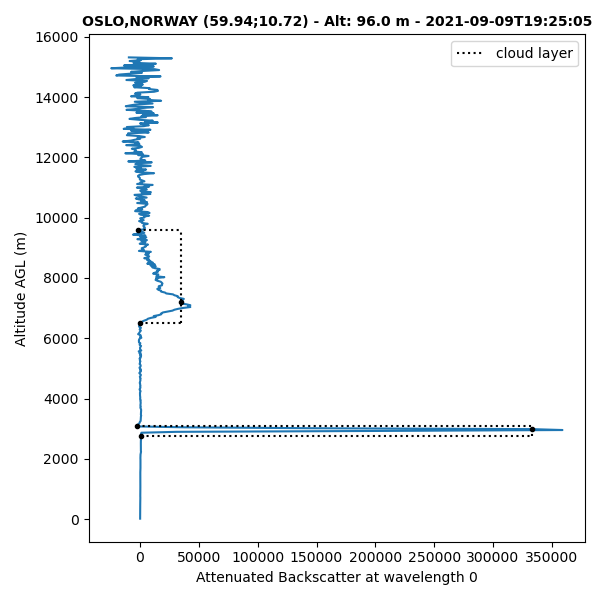
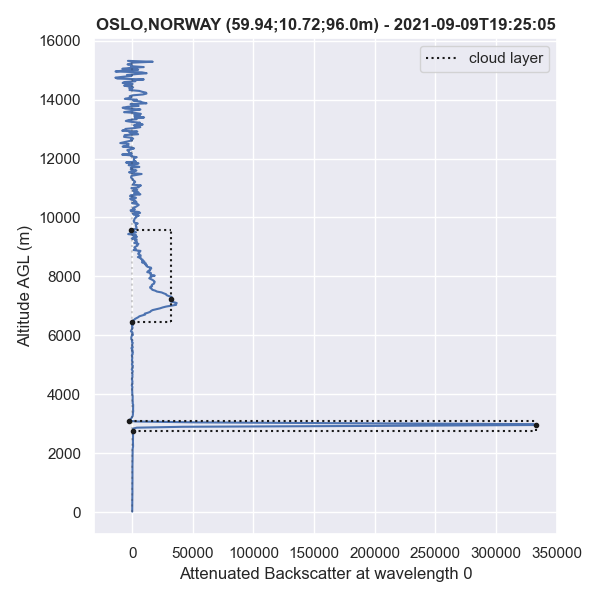
update README

diff --git a/docs/_build/html/searchindex.js b/docs/_build/html/searchindex.js
@@ -1,1 +1,1 @@
-Search.setIndex({docnames:["api","index","installation","introduction"],envversion:{"sphinx.domains.c":2,"sphinx.domains.changeset":1,"sphinx.domains.citation":1,"sphinx.domains.cpp":3,"sphinx.domains.index":1,"sphinx.domains.javascript":2,"sphinx.domains.math":2,"sphinx.domains.python":2,"sphinx.domains.rst":2,"sphinx.domains.std":1,"sphinx.ext.viewcode":1,sphinx:56},filenames:["api.rst","index.rst","installation.rst","introduction.rst"],objects:{"aprofiles.profilesdata":{ProfilesData:[0,1,1,""]},"aprofiles.profilesdata.ProfilesData":{data:[0,2,1,""],detect_clouds:[0,2,1,""],detect_fog_or_condensation:[0,2,1,""],extrapolation_lowest_layers:[0,2,1,""],gaussian_filter:[0,2,1,""],plot:[0,2,1,""],range_correction:[0,2,1,""]},"aprofiles.rayleigh":{Rayleigh:[0,1,1,""]},"aprofiles.reader":{ReadProfiles:[0,1,1,""],main:[0,3,1,""]},"aprofiles.reader.ReadProfiles":{read:[0,2,1,""]},aprofiles:{profilesdata:[0,0,0,"-"],rayleigh:[0,0,0,"-"],reader:[0,0,0,"-"]}},objnames:{"0":["py","module","Python module"],"1":["py","class","Python class"],"2":["py","method","Python method"],"3":["py","function","Python function"]},objtypes:{"0":"py:module","1":"py:class","2":"py:method","3":"py:function"},terms:{"1013":0,"1064":[],"150m":0,"200":0,"298":0,"case":0,"default":0,"float":0,"function":0,"int":0,"return":0,"true":0,"var":0,For:1,The:0,Use:0,about:1,abov:0,add:0,add_cloud:[],add_dataarrai:0,add_fog:[],add_pbl:[],addit:0,aerocom:3,aerosol:0,after:0,aggreg:0,agl:0,all:0,altitud:0,amol:[],angl:0,api:1,appli:0,aprofil:[0,2],arg:0,arrai:0,atmospher:[],attenuated_backscatter_0:0,attribut:0,avail:0,axes:0,axi:0,backscatt:0,base:0,beam:0,becom:0,befor:0,below:0,blabla:3,blblbl:3,blvblv:[],bmol:[],bool:0,calcul:0,call:0,can:2,certain:0,closest:0,cloud:0,cloud_base_height:0,clouds_bas:0,clouds_peak:0,clouds_top:0,cmap:0,coeffici:[],colormap:0,comput:0,condens:0,consid:0,construct:0,constructor:0,copi:0,core:0,correct:0,correspond:0,coupl:0,cross:0,cst:0,dataarrai:0,datarrai:0,dataset:0,datetim:0,datetime64:0,depenc:2,detect:0,detect_cloud:0,detect_fog_or_condens:0,determin:0,deviat:0,discrimin:0,document:0,due:0,dure:0,each:0,effect:0,els:0,equal:0,extinct:0,extrapol:0,extrapolation_low_lay:0,extrapolation_lowest_lay:0,fals:0,file:0,filter:0,first:0,fog:0,fog_or_condens:0,found:0,frequenc:0,from:0,gaussian:0,gaussian_filt:0,give:0,given:0,good:0,ground:0,height:0,high:0,hpa:0,http:3,imag:0,index:1,inplac:0,instal:1,instanc:0,instrument:0,intrest:0,its:2,kernel:0,latest:2,layer:0,level:0,lin:0,load:[],log:0,logarithm:0,look:0,lower:0,lowest:0,main:0,make:0,matplotlib:0,max:0,maximum:0,measur:0,met:3,method:0,minimum:0,minut:0,mode:0,modul:[0,1],more:0,name:0,netcdf:0,nois:0,none:0,note:0,number:0,object:0,often:0,one:0,option:0,order:0,page:1,particular:0,path:0,pbl:0,peak:0,perturb:0,plot:0,pressur:0,process:0,profil:0,properti:0,provid:0,puls:0,quicklook:0,quickplot:[],random:0,range_correct:0,rdylbu_r:0,reader:0,recommend:0,reduc:0,releas:2,relev:0,reli:0,replac:0,repres:0,result:0,same:0,satur:0,scalar:0,scale:0,search:1,seem:0,self:[],sequenc:0,show_cloud:0,show_fog:0,show_pbl:0,sigma:0,signal:0,signific:0,singl:0,situat:0,solid:0,sourc:0,spectral_r:0,squar:0,standar:[],standard:0,standard_atmospher:[],str:0,subject:0,temperatur:0,test:0,than:0,thi:[0,2],thr_cloud:0,thr_nois:0,threshold:0,time:0,time_avg:0,top:0,unlik:0,url:0,use:0,used:0,user:1,using:0,valu:0,variabl:0,verbos:0,version:2,vmax:0,vmin:0,vprofil:3,wavelength:0,where:0,which:0,xarrai:0,you:2,zmax:0,zmin:0},titles:["API","A-Profiles","Installation","About"],titleterms:{"class":0,about:3,aerosol:3,analysi:3,api:0,data:0,indic:1,instal:2,pip:2,profil:[1,3],profilesdata:0,rayleigh:0,read:0,readprofil:0,tabl:1,via:2,visual:3}})
+Search.setIndex({docnames:["api","index","installation","introduction"],envversion:{"sphinx.domains.c":2,"sphinx.domains.changeset":1,"sphinx.domains.citation":1,"sphinx.domains.cpp":3,"sphinx.domains.index":1,"sphinx.domains.javascript":2,"sphinx.domains.math":2,"sphinx.domains.python":2,"sphinx.domains.rst":2,"sphinx.domains.std":1,"sphinx.ext.viewcode":1,sphinx:56},filenames:["api.rst","index.rst","installation.rst","introduction.rst"],objects:{"aprofiles.profilesdata":{ProfilesData:[0,1,1,""]},"aprofiles.profilesdata.ProfilesData":{data:[0,2,1,""],detect_clouds:[0,2,1,""],detect_fog_or_condensation:[0,2,1,""],extrapolation_lowest_layers:[0,2,1,""],gaussian_filter:[0,2,1,""],plot:[0,2,1,""],range_correction:[0,2,1,""]},"aprofiles.rayleigh":{Rayleigh:[0,1,1,""]},"aprofiles.reader":{ReadProfiles:[0,1,1,""],main:[0,3,1,""]},"aprofiles.reader.ReadProfiles":{read:[0,2,1,""]},aprofiles:{profilesdata:[0,0,0,"-"],rayleigh:[0,0,0,"-"],reader:[0,0,0,"-"]}},objnames:{"0":["py","module","Python module"],"1":["py","class","Python class"],"2":["py","method","Python method"],"3":["py","function","Python function"]},objtypes:{"0":"py:module","1":"py:class","2":"py:method","3":"py:function"},terms:{"1013":0,"1064":[],"150m":0,"200":0,"298":0,"case":0,"default":0,"float":0,"function":0,"int":0,"return":0,"true":0,"var":0,For:1,The:0,Use:0,about:1,abov:0,add:0,add_cloud:[],add_dataarrai:0,add_fog:[],add_pbl:[],addit:0,aerocom:3,aerosol:0,after:0,aggreg:0,agl:0,all:0,altitud:0,amol:[],angl:0,api:1,appli:0,aprofil:[0,2],arg:0,arrai:0,atmospher:[],attenuated_backscatter_0:0,attribut:0,avail:0,axes:0,axi:0,backscatt:0,base:0,beam:0,becom:0,befor:0,below:0,blabla:3,blblbl:3,blvblv:[],bmol:[],bool:0,calcul:0,call:0,can:2,certain:0,closest:0,cloud:0,cloud_base_height:0,clouds_bas:0,clouds_peak:0,clouds_top:0,cmap:0,coeffici:[],colormap:0,comput:0,condens:0,consid:0,construct:0,constructor:0,coolwarm:0,copi:0,core:0,correct:0,correspond:0,coupl:0,cross:0,cst:0,dataarrai:0,datarrai:0,dataset:0,datetim:0,datetime64:0,depenc:2,detect:0,detect_cloud:0,detect_fog_or_condens:0,determin:0,deviat:0,discrimin:0,document:0,due:0,dure:0,each:0,effect:0,els:0,equal:0,extinct:0,extrapol:0,extrapolation_low_lay:0,extrapolation_lowest_lay:0,fals:0,file:0,filter:0,first:0,fog:0,fog_or_condens:0,found:0,frequenc:0,from:0,gaussian:0,gaussian_filt:0,give:0,given:0,good:0,ground:0,height:0,high:0,hpa:0,http:3,imag:0,index:1,inplac:0,instal:1,instanc:0,instrument:0,intrest:0,its:2,kernel:0,latest:2,layer:0,level:0,lin:0,load:[],log:0,logarithm:0,look:0,lower:0,lowest:0,main:0,make:0,matplotlib:0,max:0,maximum:0,measur:0,met:3,method:0,minimum:0,minut:0,mode:0,modul:[0,1],more:0,name:0,netcdf:0,nois:0,none:0,note:0,number:0,object:0,often:0,one:0,option:0,order:0,page:1,particular:0,path:0,pbl:0,peak:0,perturb:0,plot:0,pressur:0,process:0,profil:0,properti:0,provid:0,puls:0,quicklook:0,quickplot:[],random:0,range_correct:0,rdylbu_r:[],reader:0,recommend:0,reduc:0,releas:2,relev:0,reli:0,replac:0,repres:0,result:0,same:0,satur:0,scalar:0,scale:0,search:1,seem:0,self:[],sequenc:0,show_cloud:0,show_fog:0,show_pbl:0,sigma:0,signal:0,signific:0,singl:0,situat:0,solid:0,sourc:0,spectral_r:[],squar:0,standar:[],standard:0,standard_atmospher:[],str:0,subject:0,temperatur:0,test:0,than:0,thi:[0,2],thr_cloud:0,thr_nois:0,threshold:0,time:0,time_avg:0,top:0,unlik:0,url:0,use:0,used:0,user:1,using:0,valu:0,variabl:0,verbos:0,version:2,vmax:0,vmin:0,vprofil:3,wavelength:0,where:0,which:0,xarrai:0,you:2,zmax:0,zmin:0},titles:["API","A-Profiles","Installation","About"],titleterms:{"class":0,about:3,aerosol:3,analysi:3,api:0,data:0,indic:1,instal:2,pip:2,profil:[1,3],profilesdata:0,rayleigh:0,read:0,readprofil:0,tabl:1,via:2,visual:3}})

diff --git a/docs/_build/html/_modules/aprofiles/profilesdata.html b/docs/_build/html/_modules/aprofiles/profilesdata.html
@@ -515,7 +515,7 @@
         <span class="k">return</span> <span class="bp">self</span></div>
 
 
-<div class="viewcode-block" id="ProfilesData.plot"><a class="viewcode-back" href="../../api.html#aprofiles.profilesdata.ProfilesData.plot">[docs]</a>    <span class="k">def</span> <span class="nf">plot</span><span class="p">(</span><span class="bp">self</span><span class="p">,</span> <span class="n">var</span><span class="o">=</span><span class="s1">&#39;attenuated_backscatter_0&#39;</span><span class="p">,</span> <span class="n">datetime</span><span class="o">=</span><span class="kc">None</span><span class="p">,</span> <span class="n">zmin</span><span class="o">=</span><span class="kc">None</span><span class="p">,</span> <span class="n">zmax</span><span class="o">=</span><span class="kc">None</span><span class="p">,</span> <span class="n">vmin</span><span class="o">=</span><span class="mi">0</span><span class="p">,</span> <span class="n">vmax</span><span class="o">=</span><span class="kc">None</span><span class="p">,</span> <span class="n">log</span><span class="o">=</span><span class="kc">False</span><span class="p">,</span> <span class="n">show_fog</span><span class="o">=</span><span class="kc">False</span><span class="p">,</span> <span class="n">show_pbl</span><span class="o">=</span><span class="kc">False</span><span class="p">,</span> <span class="n">show_clouds</span><span class="o">=</span><span class="kc">False</span><span class="p">,</span> <span class="n">cmap</span><span class="o">=</span><span class="s1">&#39;RdYlBu_r&#39;</span><span class="p">):</span>
+<div class="viewcode-block" id="ProfilesData.plot"><a class="viewcode-back" href="../../api.html#aprofiles.profilesdata.ProfilesData.plot">[docs]</a>    <span class="k">def</span> <span class="nf">plot</span><span class="p">(</span><span class="bp">self</span><span class="p">,</span> <span class="n">var</span><span class="o">=</span><span class="s1">&#39;attenuated_backscatter_0&#39;</span><span class="p">,</span> <span class="n">datetime</span><span class="o">=</span><span class="kc">None</span><span class="p">,</span> <span class="n">zmin</span><span class="o">=</span><span class="kc">None</span><span class="p">,</span> <span class="n">zmax</span><span class="o">=</span><span class="kc">None</span><span class="p">,</span> <span class="n">vmin</span><span class="o">=</span><span class="mi">0</span><span class="p">,</span> <span class="n">vmax</span><span class="o">=</span><span class="kc">None</span><span class="p">,</span> <span class="n">log</span><span class="o">=</span><span class="kc">False</span><span class="p">,</span> <span class="n">show_fog</span><span class="o">=</span><span class="kc">False</span><span class="p">,</span> <span class="n">show_pbl</span><span class="o">=</span><span class="kc">False</span><span class="p">,</span> <span class="n">show_clouds</span><span class="o">=</span><span class="kc">False</span><span class="p">,</span> <span class="n">cmap</span><span class="o">=</span><span class="s1">&#39;coolwarm&#39;</span><span class="p">):</span>
         <span class="sd">&quot;&quot;&quot;Plot 2D Quicklook</span>
 
 <span class="sd">        Args:</span>
@@ -529,7 +529,7 @@
 <span class="sd">            show_fog (bool, optional): Add fog detection. Defaults to False.</span>
 <span class="sd">            show_pbl (bool, optional): Add PBL height. Defaults to False.</span>
 <span class="sd">            show_clouds (bool, optional): Add clouds detection. Defaults to False.</span>
-<span class="sd">            cmap (str, optional): Matplotlib colormap. Defaults to &#39;Spectral_r&#39;.</span>
+<span class="sd">            cmap (str, optional): Matplotlib colormap. Defaults to &#39;coolwarm&#39;.</span>
 <span class="sd">        &quot;&quot;&quot;</span>
         <span class="k">if</span> <span class="n">datetime</span><span class="o">==</span><span class="kc">None</span><span class="p">:</span>
             <span class="n">apro</span><span class="o">.</span><span class="n">plot</span><span class="o">.</span><span class="n">image</span><span class="o">.</span><span class="n">plot</span><span class="p">(</span><span class="bp">self</span><span class="o">.</span><span class="n">data</span><span class="p">,</span> <span class="n">var</span><span class="p">,</span> <span class="n">zmin</span><span class="p">,</span> <span class="n">zmax</span><span class="p">,</span> <span class="n">vmin</span><span class="p">,</span> <span class="n">vmax</span><span class="p">,</span> <span class="n">log</span><span class="p">,</span> <span class="n">show_fog</span><span class="p">,</span> <span class="n">show_pbl</span><span class="p">,</span> <span class="n">show_clouds</span><span class="p">,</span> <span class="n">cmap</span><span class="o">=</span><span class="n">cmap</span><span class="p">)</span>

diff --git a/docs/_build/html/api.html b/docs/_build/html/api.html
@@ -163,7 +163,7 @@ inplace (bool, optional): if True, replace the variable, else use a copy. Defaul
 
 <dl class="py method">
 <dt id="aprofiles.profilesdata.ProfilesData.plot">
-<code class="sig-name descname">plot</code><span class="sig-paren">(</span><em class="sig-param"><span class="n">var</span><span class="o">=</span><span class="default_value">'attenuated_backscatter_0'</span></em>, <em class="sig-param"><span class="n">datetime</span><span class="o">=</span><span class="default_value">None</span></em>, <em class="sig-param"><span class="n">zmin</span><span class="o">=</span><span class="default_value">None</span></em>, <em class="sig-param"><span class="n">zmax</span><span class="o">=</span><span class="default_value">None</span></em>, <em class="sig-param"><span class="n">vmin</span><span class="o">=</span><span class="default_value">0</span></em>, <em class="sig-param"><span class="n">vmax</span><span class="o">=</span><span class="default_value">None</span></em>, <em class="sig-param"><span class="n">log</span><span class="o">=</span><span class="default_value">False</span></em>, <em class="sig-param"><span class="n">show_fog</span><span class="o">=</span><span class="default_value">False</span></em>, <em class="sig-param"><span class="n">show_pbl</span><span class="o">=</span><span class="default_value">False</span></em>, <em class="sig-param"><span class="n">show_clouds</span><span class="o">=</span><span class="default_value">False</span></em>, <em class="sig-param"><span class="n">cmap</span><span class="o">=</span><span class="default_value">'RdYlBu_r'</span></em><span class="sig-paren">)</span><a class="reference internal" href="_modules/aprofiles/profilesdata.html#ProfilesData.plot"><span class="viewcode-link">[source]</span></a><a class="headerlink" href="#aprofiles.profilesdata.ProfilesData.plot" title="Permalink to this definition">¶</a></dt>
+<code class="sig-name descname">plot</code><span class="sig-paren">(</span><em class="sig-param"><span class="n">var</span><span class="o">=</span><span class="default_value">'attenuated_backscatter_0'</span></em>, <em class="sig-param"><span class="n">datetime</span><span class="o">=</span><span class="default_value">None</span></em>, <em class="sig-param"><span class="n">zmin</span><span class="o">=</span><span class="default_value">None</span></em>, <em class="sig-param"><span class="n">zmax</span><span class="o">=</span><span class="default_value">None</span></em>, <em class="sig-param"><span class="n">vmin</span><span class="o">=</span><span class="default_value">0</span></em>, <em class="sig-param"><span class="n">vmax</span><span class="o">=</span><span class="default_value">None</span></em>, <em class="sig-param"><span class="n">log</span><span class="o">=</span><span class="default_value">False</span></em>, <em class="sig-param"><span class="n">show_fog</span><span class="o">=</span><span class="default_value">False</span></em>, <em class="sig-param"><span class="n">show_pbl</span><span class="o">=</span><span class="default_value">False</span></em>, <em class="sig-param"><span class="n">show_clouds</span><span class="o">=</span><span class="default_value">False</span></em>, <em class="sig-param"><span class="n">cmap</span><span class="o">=</span><span class="default_value">'coolwarm'</span></em><span class="sig-paren">)</span><a class="reference internal" href="_modules/aprofiles/profilesdata.html#ProfilesData.plot"><span class="viewcode-link">[source]</span></a><a class="headerlink" href="#aprofiles.profilesdata.ProfilesData.plot" title="Permalink to this definition">¶</a></dt>
 <dd><p>Plot 2D Quicklook</p>
 <dl class="simple">
 <dt>Args:</dt><dd><p>var (str, optional): Variable of ProfilesData.data Dataset to be plotted. Defaults to ‘attenuated_backscatter_0’.
@@ -176,7 +176,7 @@ log (bool, optional), Use logarithmic scale. Defaults to None.
 show_fog (bool, optional): Add fog detection. Defaults to False.
 show_pbl (bool, optional): Add PBL height. Defaults to False.
 show_clouds (bool, optional): Add clouds detection. Defaults to False.
-cmap (str, optional): Matplotlib colormap. Defaults to ‘Spectral_r’.</p>
+cmap (str, optional): Matplotlib colormap. Defaults to ‘coolwarm’.</p>
 </dd>
 </dl>
 </dd></dl>

diff --git a/aprofiles/plot/image.py b/aprofiles/plot/image.py
@@ -8,6 +8,10 @@ import matplotlib.pyplot as plt
 import numpy as np
 import pandas as pd
 
+import seaborn as sns
+sns.set_theme()
+
+
 
 def _plot_fog(da, time):
     """Plot fog at the bottom of the image
@@ -45,7 +49,7 @@ def _plot_clouds(da, time, altitude):
         plt.plot(t, altitude[t_indexes], 'k.')
         
 
-def plot(da, var='attenuated_backscatter_0', zmin=None, zmax=None, vmin=0, vmax=None, log=False, show_fog=False, show_pbl=False, show_clouds=False, cmap='RdYlBu_r'):
+def plot(da, var='attenuated_backscatter_0', zmin=None, zmax=None, vmin=0, vmax=None, log=False, show_fog=False, show_pbl=False, show_clouds=False, cmap='coolwarm'):
     """Plot image of profiles.
 
     Args:
@@ -59,7 +63,7 @@ def plot(da, var='attenuated_backscatter_0', zmin=None, zmax=None, vmin=0, vmax=
         show_fog (bool, optional): Add fog detection. Defaults to False.
         show_pbl (bool, optional): Add PBL height. Defaults to False.
         show_clouds (bool, optional): Add clouds detection. Defaults to False.
-        cmap (str, optional): Matplotlib colormap. Defaults to 'Spectral_r'.
+        cmap (str, optional): Matplotlib colormap. Defaults to 'coolwarm' cmap from seaborn.
     """
 
     #calculates max value from data
@@ -68,6 +72,9 @@ def plot(da, var='attenuated_backscatter_0', zmin=None, zmax=None, vmin=0, vmax=
         pow10 = np.ceil(np.log10(perc))
         vmax = 10**(pow10)
 
+    #use seaborn coolwarm colormap
+    #if cmap=='coolwarm':
+    #    cmap = sns.color_palette("coolwarm", as_cmap=True)
 
     #time
     time = da.time.data #time
@@ -102,7 +109,7 @@ def plot(da, var='attenuated_backscatter_0', zmin=None, zmax=None, vmin=0, vmax=
     longitude = da.station_longitude.data
     altitude = da.station_altitude.data
     station_id = da.attrs['site_location']
-    plt.title('{} ({:.2f};{:.2f}) - Alt: {} m - {}/{:02}/{:02}'.format(station_id, latitude, longitude, altitude, yyyy, mm, dd), weight='bold')
+    plt.title('{} ({:.2f};{:.2f};{:.1f}m) - {}/{:02}/{:02}'.format(station_id, latitude, longitude, altitude, yyyy, mm, dd), weight='bold')
     plt.xlabel('Time')
     plt.ylabel('Altitude AGL (m)')
 

diff --git a/aprofiles/profilesdata.py b/aprofiles/profilesdata.py
@@ -448,7 +448,7 @@ class ProfilesData:
         return self
 
 
-    def plot(self, var='attenuated_backscatter_0', datetime=None, zmin=None, zmax=None, vmin=0, vmax=None, log=False, show_fog=False, show_pbl=False, show_clouds=False, cmap='RdYlBu_r'):
+    def plot(self, var='attenuated_backscatter_0', datetime=None, zmin=None, zmax=None, vmin=0, vmax=None, log=False, show_fog=False, show_pbl=False, show_clouds=False, cmap='coolwarm'):
         """Plot 2D Quicklook
 
         Args:
@@ -462,7 +462,7 @@ class ProfilesData:
             show_fog (bool, optional): Add fog detection. Defaults to False.
             show_pbl (bool, optional): Add PBL height. Defaults to False.
             show_clouds (bool, optional): Add clouds detection. Defaults to False.
-            cmap (str, optional): Matplotlib colormap. Defaults to 'Spectral_r'.
+            cmap (str, optional): Matplotlib colormap. Defaults to 'coolwarm'.
         """
         if datetime==None:
             apro.plot.image.plot(self.data, var, zmin, zmax, vmin, vmax, log, show_fog, show_pbl, show_clouds, cmap=cmap)

diff --git a/aprofiles/plot/profile.py b/aprofiles/plot/profile.py
@@ -84,6 +84,8 @@ def plot(da, datetime, var='attenuated_backscatter_0', zmin=None, zmax= None, vm
     
     fig, axs = plt.subplots(1, 1, figsize=(6, 6))
     plt.plot(da[var].data[itime], altitude)
+    #add zeros
+    plt.plot(np.zeros(len(altitude)), altitude, ':k', alpha=0.2)
 
     if log:
         axs.set_xscale('log')
@@ -104,7 +106,7 @@ def plot(da, datetime, var='attenuated_backscatter_0', zmin=None, zmax= None, vm
     longitude = da.station_longitude.data
     altitude = da.station_altitude.data
     station_id = da.attrs['site_location']
-    plt.title('{} ({:.2f};{:.2f}) - Alt: {} m - {}'.format(station_id, latitude, longitude, altitude, np.datetime_as_string(da_time[itime]).split('.')[0]), weight='bold', fontsize=10)
+    plt.title('{} ({:.2f};{:.2f};{:.1f}m) - {}'.format(station_id, latitude, longitude, altitude, np.datetime_as_string(da_time[itime]).split('.')[0]), weight='bold', fontsize=12)
     plt.xlabel(da[var].long_name)
     plt.ylabel('Altitude AGL (m)')
 

diff --git a/main.py b/main.py
@@ -21,7 +21,7 @@ profiles = apro_reader.read()
 profiles.range_correction(var='attenuated_backscatter_0', inplace=True)
 
 #extrapolate lowest layers where random signal is measured
-profiles.extrapolation_lowest_layers(zmin=300, inplace=True)
+profiles.extrapolation_lowest_layers(zmin=300, inplace=True).plot(log=True, vmin=1e1, vmax=1e5)
 
 #add some gaussian filtering
 profiles.gaussian_filter(var='attenuated_backscatter_0', sigma=0.50, inplace=True)
